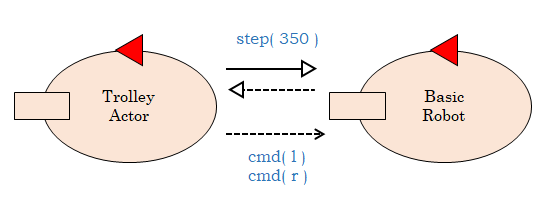
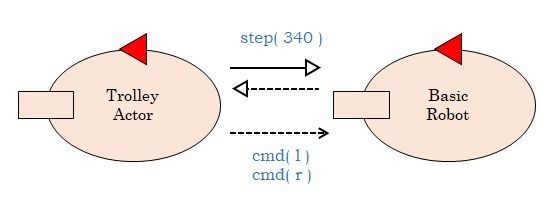
final touches

diff --git a/Sprint 1/carparking_webgui/carparking.webgui/src/main/kotlin/carparking/webgui/HIController.kt b/Sprint 1/carparking_webgui/carparking.webgui/src/main/kotlin/carparking/webgui/HIController.kt
@@ -26,32 +26,27 @@ class HIController {
     @Value("\${spring.application.name}")
     var appName: String? = null
 
-    @Autowired
-    var simpMessagingTemplate: SimpMessagingTemplate? = null
-
     val carparkingAddress = "127.0.0.1"
-    lateinit var carparkingConnection: connQakBase
-
-    var answerChannel = Channel<String>()
-    lateinit var coapsupport: CoapSupport
     val coapObserver = WebPageCoapHandler(this, null)
+    var answerChannel = Channel<String>()
+    lateinit var carparkingConnection: connQakBase
+    lateinit var coapsupport: CoapSupport
 
     init {
         connQak.robothostAddr = carparkingAddress
         carparkingConnection = connQakBase.create(ConnectionType.TCP)
         carparkingConnection.createConnection()
-        coapsupport = CoapSupport("coap://${connQak.robothostAddr}:${connQak.robotPort}", "ctxcarparking/parkserviceguiactor")
+        coapsupport =
+            CoapSupport("coap://${connQak.robothostAddr}:${connQak.robotPort}", "ctxcarparking/parkserviceguiactor")
         coapsupport.observeResource(coapObserver)
     }
 
     @GetMapping("/")
     fun homePage(model: Model): String {
         println("/ $model")
-        // model.addAttribute("arg", appName)
         model.addAttribute("received", "")
         return "clientGui"
     }
-
 
     @PostMapping("/carparking")
     fun carparking(
@@ -59,35 +54,45 @@ class HIController {
         @RequestParam(name = "dispatch", required = false, defaultValue = "") button: String,
         @RequestParam(name = "token", required = false, defaultValue = "") token: String
     ): String {
-        println("/carparking viewmodel=$viewmodel button=$button token=$token")
+        println("/carparking viewmodel=$viewmodel button=$button token=$token ...")
+
         val message = when (button) {
-            "enter_request" -> MsgUtil.buildDispatch("clientsgui", "enterRequest", "enterRequest(0)", connQak.qakdestination)
+            "enter_request" -> MsgUtil.buildDispatch(
+                "clientsgui",
+                "enterRequest",
+                "enterRequest(0)",
+                connQak.qakdestination
+            )
             "car_enter" -> MsgUtil.buildDispatch("clientsgui", "carEnter", "carEnter(0)", connQak.qakdestination)
-            "exit_request" -> MsgUtil.buildDispatch("clientsgui", "exitRequest", "exitRequest(${token.lowercase()})", connQak.qakdestination)
+            "exit_request" -> MsgUtil.buildDispatch(
+                "clientsgui",
+                "exitRequest",
+                "exitRequest(${token.lowercase()})",
+                connQak.qakdestination
+            )
             else -> null
         }
+
         if (message != null) {
 
             var answer = ""
-
             coapObserver.channel = answerChannel
             carparkingConnection.forward(message)
             runBlocking {
                 answer = answerChannel.receive()
                 coapObserver.channel = null
             }
-            println("/carparking answer=$answer")
+            println("... answer=$answer")
 
             if (answer.contains("slotnum")) answer = "The SLOTNUM is ${parseArg(answer)}"
             else if (answer.contains("tokenid")) answer = "The TOKENID is ${parseArg(answer)}"
             else answer = ""
-
-            //viewmodel.addAttribute("arg1", message.msgContent())
             viewmodel.addAttribute("received", answer)
 
         } else {
             viewmodel.addAttribute("received", "")
         }
+
         return "clientGui"
     }
 

diff --git a/Sprint 1/carparking_workspace/CarParking/src/it/unibo/parkserviceguiactor/Parkserviceguiactor.kt b/Sprint 1/carparking_workspace/CarParking/src/it/unibo/parkserviceguiactor/Parkserviceguiactor.kt
@@ -27,21 +27,21 @@ class Parkserviceguiactor ( name: String, scope: CoroutineScope  ) : ActorBasicF
 					action { //it:State
 						if( checkMsgContent( Term.createTerm("slotnum(SLOTNUM)"), Term.createTerm("slotnum(SLOTNUM)"), 
 						                        currentMsg.msgContent()) ) { //set msgArgList
-								println("Client's GUI -> The SLOTNUM is: ${payloadArg(0)}")
+								println("Client's GUI feedback -> The SLOTNUM is ${payloadArg(0)}")
 								updateResourceRep( "${currentMsg.msgContent()}"  
 								)
 								 println("parkserviceguiactor -> updateResource -> ${currentMsg.msgContent()}")  
 						}
 						if( checkMsgContent( Term.createTerm("tokenid(TOKENID)"), Term.createTerm("tokenid(TOKENID)"), 
 						                        currentMsg.msgContent()) ) { //set msgArgList
-								println("Client's GUI -> The TOKENID is: ${payloadArg(0)}")
+								println("Client's GUI feedback -> The TOKENID is ${payloadArg(0)}")
 								updateResourceRep( "${currentMsg.msgContent()}"  
 								)
 								 println("parkserviceguiactor -> updateResource -> ${currentMsg.msgContent()}")  
 						}
 						if( checkMsgContent( Term.createTerm("notice(NOTICE)"), Term.createTerm("notice(MESSAGE)"), 
 						                        currentMsg.msgContent()) ) { //set msgArgList
-								println("Client's GUI -> Notice received: ${payloadArg(0)}")
+								println("Client's GUI feedback -> Notice received: ${payloadArg(0)}")
 								updateResourceRep( "${currentMsg.msgContent()}"  
 								)
 								 println("parkserviceguiactor -> updateResource -> ${currentMsg.msgContent()}")  

diff --git a/Sprint 1/carparking_webgui/carparking.webgui/src/main/resources/templates/clientGui.html b/Sprint 1/carparking_webgui/carparking.webgui/src/main/resources/templates/clientGui.html
@@ -56,6 +56,7 @@
     }
 
 
+
 </style>
 
 <head>
@@ -65,7 +66,7 @@
 
 <body>
 <div style="background-color: #48d1cc; border: 2px solid ">
-    <center><h2>ParkServiceGUI </h2></center>
+    <center><h2>ParkServiceGUI</h2></center>
 </div>
 
 <div class="remark">
@@ -96,7 +97,7 @@
                 </td>
                 <td>
                     <input name="token" type="text" style="width: 150px; height: 20px; background-color: #e0ffff;">
-                    
+
                 </td>
             </tr>
             <tr>
@@ -108,13 +109,12 @@
                     <br>
                 </td>
             </tr>
-            
+
         </table>
-        <!--<textarea readonly th:text="${received}"></textarea>-->
-        <input type="text" th:value="${received}" style="font-weight:bold;color:red; width: 300px; height: 20px; background-color: white;" readonly>
-        
+        <input type="text" th:value="${received}"
+               style="font-weight:bold;color:red; width: 300px; height: 20px; background-color: white;" readonly>
+
     </form>
-    <!--<p><span th:text="${received}">arg</span></p>-->
 </div>
 </body>
 </html>

diff --git a/Sprint 1/carparking_workspace/CarParking/src/it/unibo/trolleyactor/Trolleyactor.kt b/Sprint 1/carparking_workspace/CarParking/src/it/unibo/trolleyactor/Trolleyactor.kt
@@ -17,7 +17,6 @@ class Trolleyactor ( name: String, scope: CoroutineScope  ) : ActorBasicFsm( nam
 	@kotlinx.coroutines.ExperimentalCoroutinesApi			
 	override fun getBody() : (ActorBasicFsm.() -> Unit){
 		
-				// var planner = carparking.DirectionalPlanner("parkingMap")
 				var home = arrayOf("-", "-", "-")
 				var parking = arrayOf("-", "-", "-")
 				var indoor = arrayOf("-", "-", "-")
@@ -68,7 +67,7 @@ class Trolleyactor ( name: String, scope: CoroutineScope  ) : ActorBasicFsm( nam
 						 val move = carparking.directionalPlanner.getNextPlannedMove()  
 						if(  move.isNotEmpty()  
 						 ){if(  move == "w"  
-						 ){request("step", "step(350)" ,"basicrobot" )  
+						 ){request("step", "step(340)" ,"basicrobot" )  
 						}
 						if(  move == "l"  
 						 ){forward("cmd", "cmd(l)" ,"basicrobot" ) 
